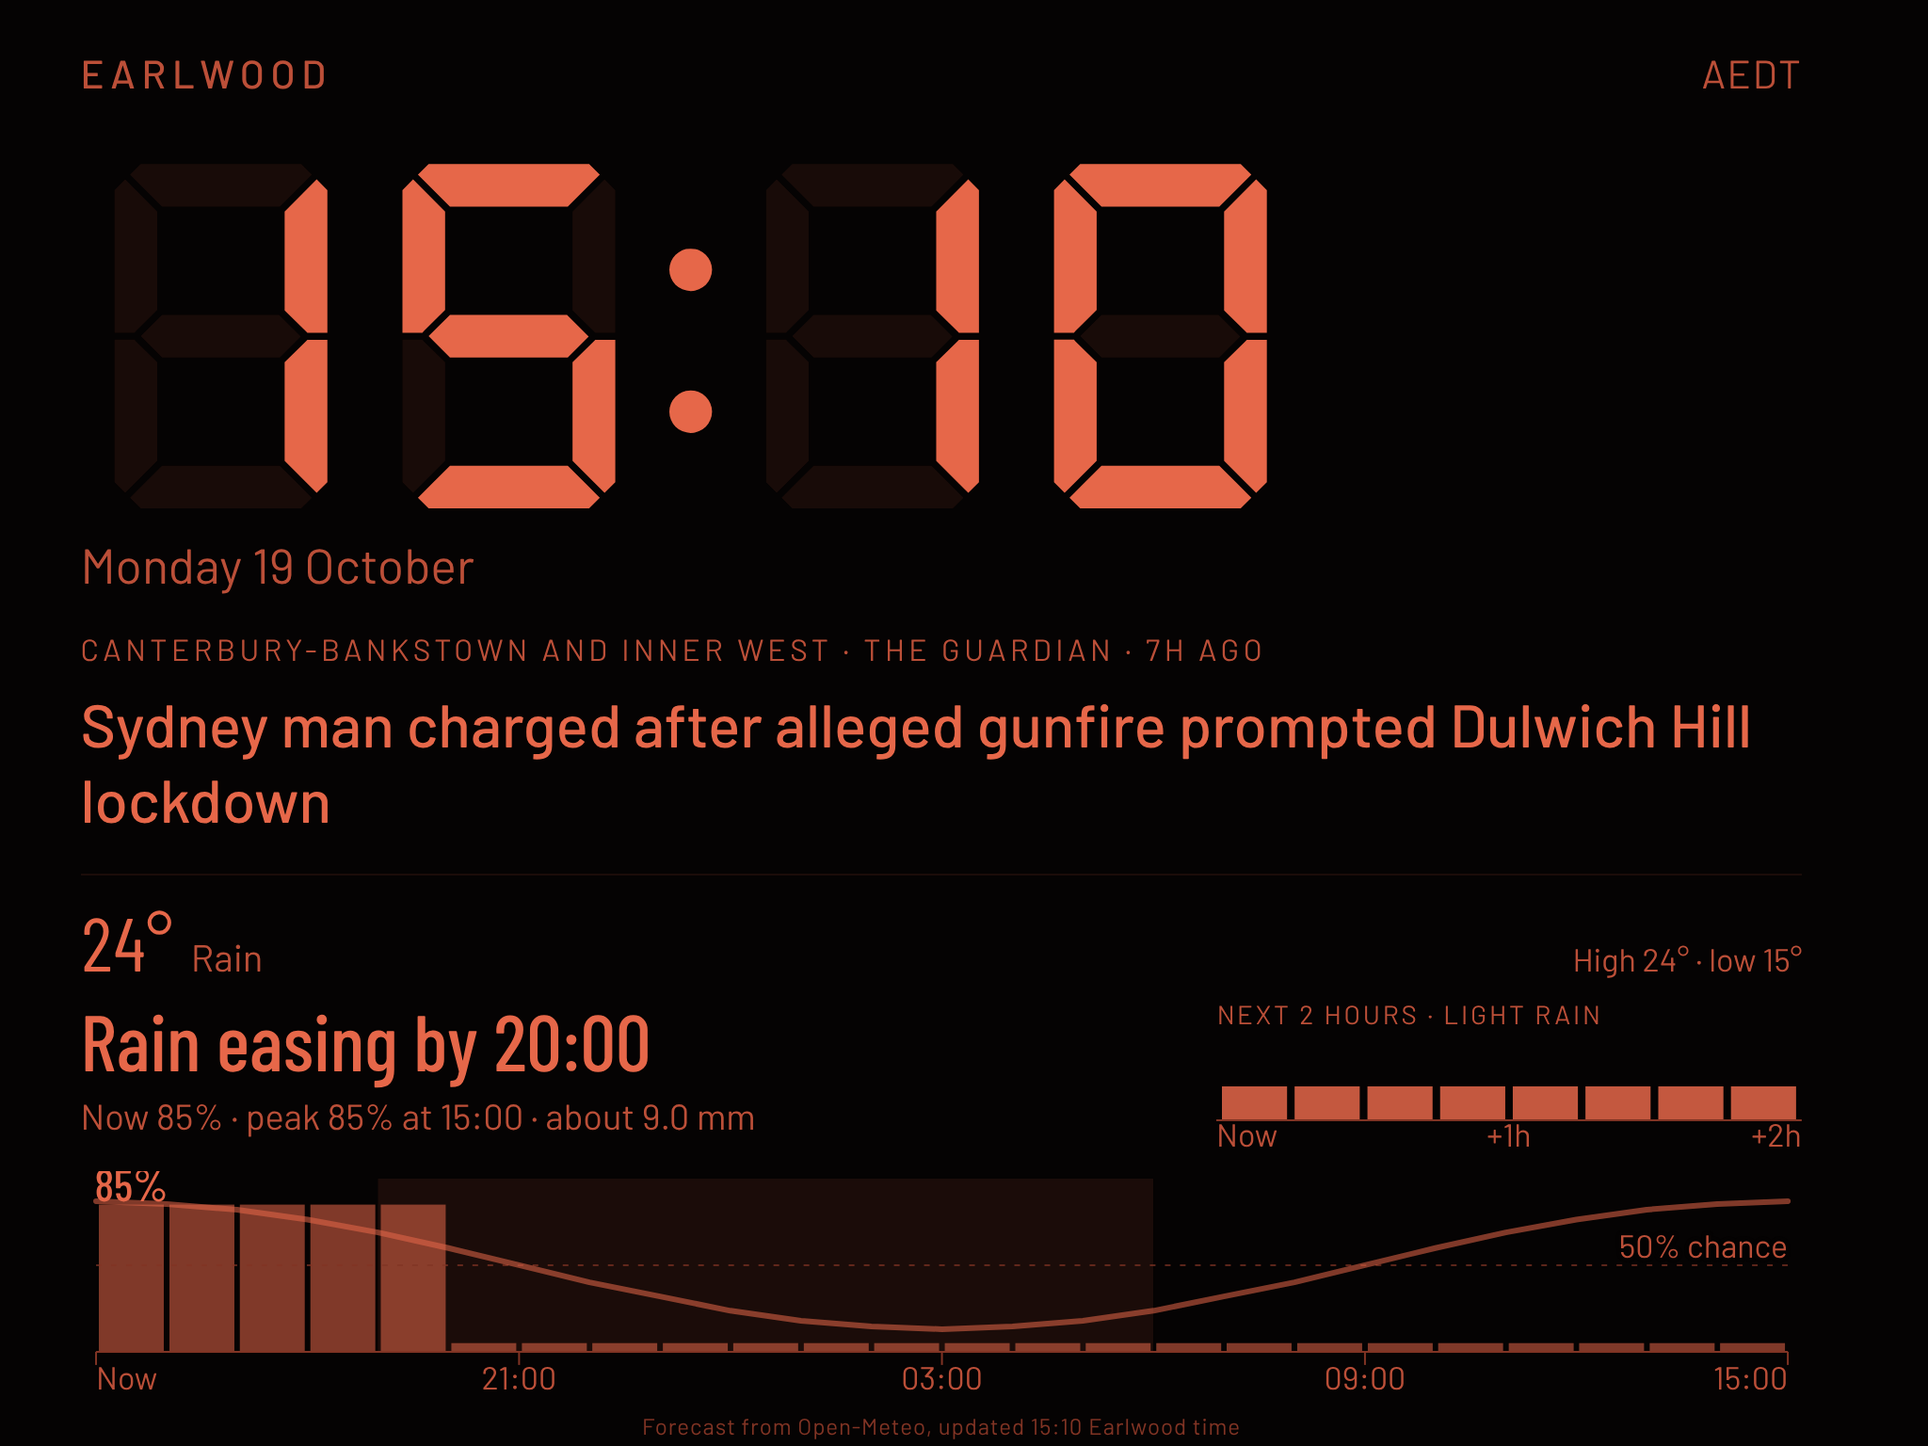
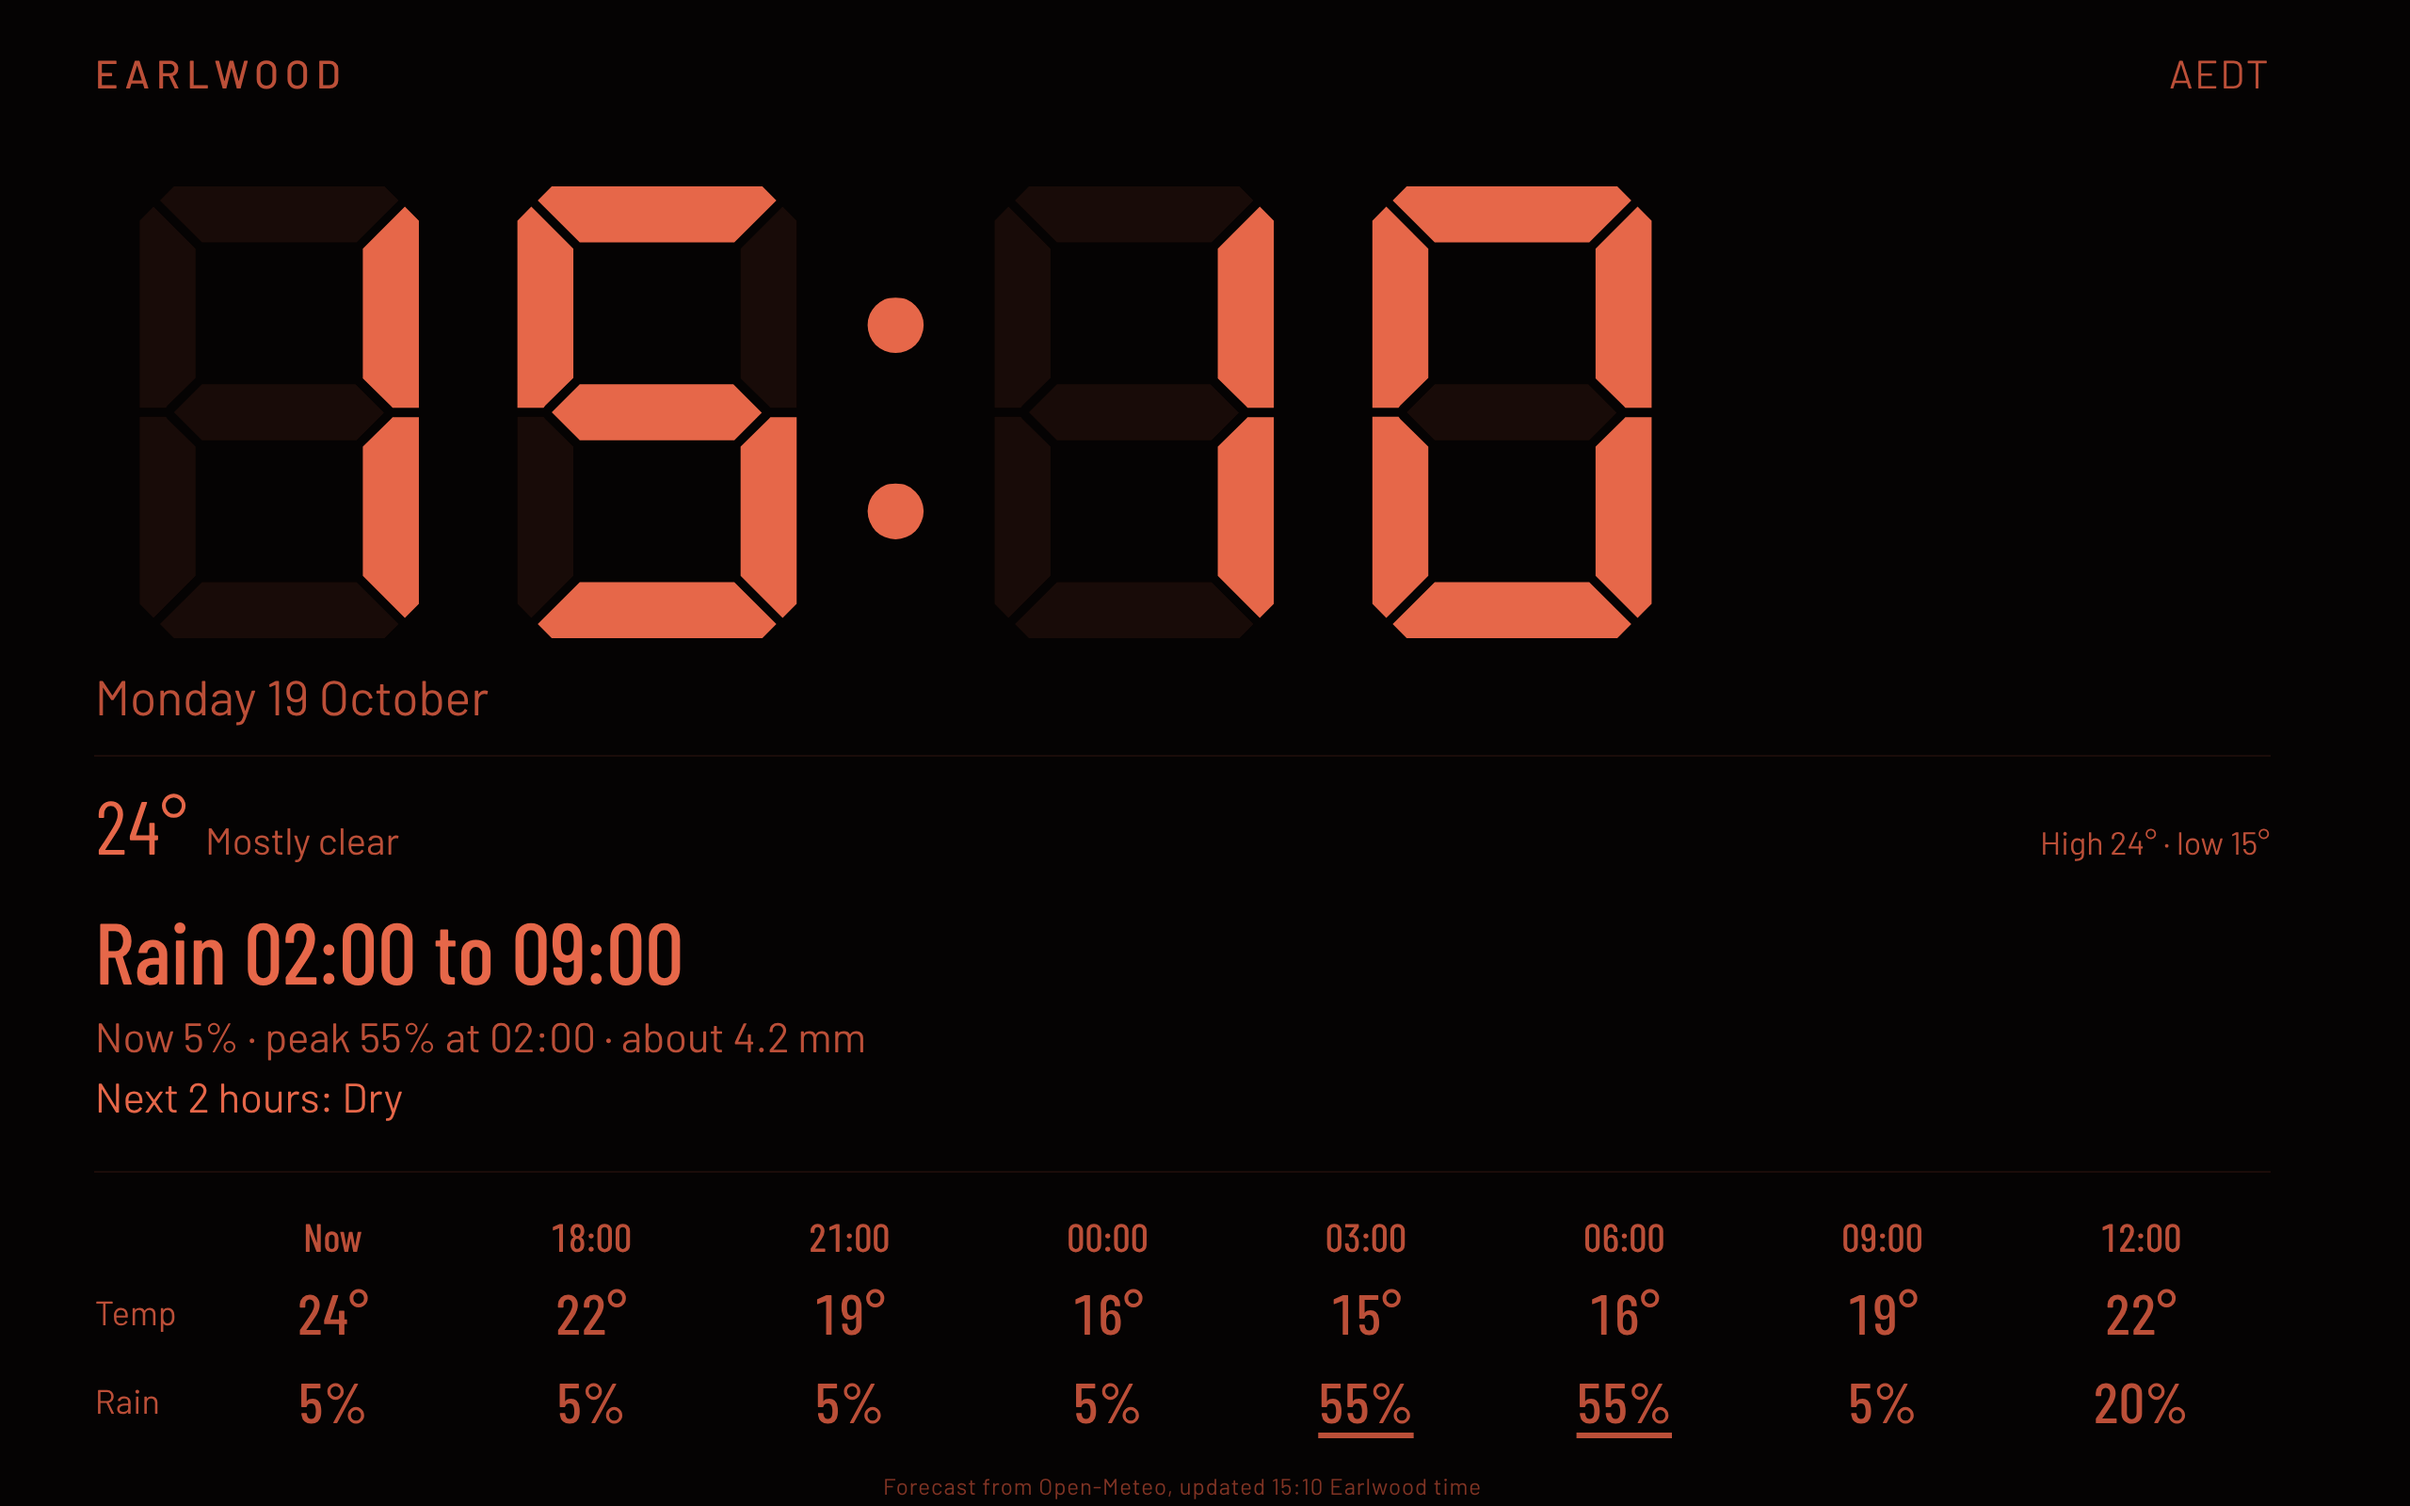
Earlwood page: text-and-numbers forecast, fit short tablet screens
Claude-Session: https://claude.ai/code/session_01LHKBPoX4shMzbvKjK3tPdX

diff --git a/app.js b/app.js
@@ -5,7 +5,7 @@
 
   // Change this whenever the page or its files change. Open clocks compare it with the
   // published app.js every half hour and reload themselves when it differs.
-  var BUILD = '20261019-1';
+  var BUILD = '20261019-3';
   var SCRIPT_URL = document.currentScript && document.currentScript.src;
 
   var CITIES = {
@@ -115,6 +115,7 @@
   els.syd.ncWrap = $('syd-nc-wrap');
   els.syd.ncCap = $('syd-nc-cap');
   els.syd.nc = $('syd-nc');
+  els.syd.grid = $('syd-grid');  // text-and-numbers forecast, used instead of the charts on the Earlwood page
   var foot = $('foot');
   var controls = $('controls');
   var btnHours = $('btn-hours');
@@ -454,8 +455,8 @@
         e.temp.textContent = '--°';
         e.desc.textContent = weather ? 'Forecast out of date' : 'Loading forecast';
         e.range.textContent = '';
-        e.chart.innerHTML = '';
-        if (e.rainHead) { e.rainHead.textContent = ''; e.rainSub.textContent = ''; e.ncWrap.hidden = true; }
+        if (e.chart) e.chart.innerHTML = '';
+        if (e.rainHead) { e.rainHead.textContent = ''; e.rainSub.textContent = ''; if (e.ncWrap) e.ncWrap.hidden = true; if (e.grid) e.grid.innerHTML = ''; }
         return;
       }
       var hi = Math.max.apply(null, win.temp);
@@ -464,7 +465,7 @@
       e.temp.textContent = Math.round(win.temp[0]) + '°';
       e.desc.textContent = codeText(win.code[0]);
       var portrait = window.innerHeight > window.innerWidth;
-      var cw = Math.round(e.chart.clientWidth) || 560;
+      var cw = e.chart ? Math.round(e.chart.clientWidth) || 560 : 0;
       if (e.rainHead) {
         // Sydney: rain first, temperature kept small
         e.range.textContent = 'High ' + Math.round(hi) + '° · low ' + Math.round(lo) + '°';
@@ -472,13 +473,27 @@
         e.rainHead.textContent = rs.head;
         e.rainSub.textContent = rs.sub;
         var nc = nowcastOf(weather[k]);
-        e.ncWrap.hidden = !nc;
+        if (e.ncWrap) e.ncWrap.hidden = !nc;
+        if (e.grid) {
+          // numbers instead of charts: every third hour, temperature and rain chance
+          e.ncCap.textContent = nc ? 'Next 2 hours: ' + nowcastText(nc) : '';
+          var cols = [0, 3, 6, 9, 12, 15, 18, 21];
+          var times = '<span class="g-l"></span>', temps = '<span class="g-l">Temp</span>', rains = '<span class="g-l">Rain</span>';
+          cols.forEach(function (i) {
+            var p = Math.round(win.pop[i]);
+            times += '<span class="g-t">' + (i === 0 ? 'Now' : hourLabel(win.t[i], CITIES[k].tz)) + '</span>';
+            temps += '<span>' + Math.round(win.temp[i]) + '°</span>';
+            rains += '<span' + (p >= 50 ? ' class="g-hi"' : '') + '>' + p + '%</span>';
+          });
+          e.grid.innerHTML = times + temps + rains;
+          return;
+        }
         if (nc) {
           e.ncCap.textContent = 'Next 2 hours · ' + nowcastText(nc);
-          e.nc.innerHTML = nowcastSVG(nc, Math.round(e.nc.clientWidth) || 220, portrait ? 46 : 60);
+          e.nc.innerHTML = nowcastSVG(nc, Math.round(e.nc.clientWidth) || 220, portrait ? 46 : (window.innerHeight <= 640 ? 40 : 60));
         }
         var roomy = !$(k + '-news');  // without a headline there is more height for the chart
-        e.chart.innerHTML = chartSVG(win, CITIES[k], cw, roomy ? Math.round(window.innerHeight * (portrait ? 0.28 : 0.25)) : (portrait ? 84 : 120), true);
+        e.chart.innerHTML = chartSVG(win, CITIES[k], cw, roomy ? Math.max(70, Math.round(e.chart.clientHeight) || 150) : (portrait ? 84 : 120), true);
       } else {
         e.range.textContent = 'Next 24h: high ' + Math.round(hi) + '°, low ' + Math.round(lo) + '° · '
           + (maxPop < 10 ? 'no rain expected' : 'rain chance up to ' + Math.round(maxPop) + '%');
@@ -494,6 +509,7 @@
     resizeTimer = setTimeout(renderWeather, 250);
   }
   window.addEventListener('resize', onResize);
+  if (document.fonts && document.fonts.ready) document.fonts.ready.then(renderWeather);
   window.addEventListener('orientationchange', onResize);
 
   function renderFoot() {

diff --git a/styles.css b/styles.css
@@ -165,9 +165,36 @@ body { font-family: var(--body); }
 
 /* Earlwood-only page (earlwood/index.html): one wide column */
 #app.solo { grid-template-columns: minmax(0, 1fr); }
-.solo #city-syd .time { font-size: 25cqw; }
+.solo #city-syd .time { font-size: min(23cqw, 30vh); }  /* wide, short screens are limited by height */
+/* the forecast fills whatever height is left under the clock */
+.solo .wx { flex: 1 1 auto; display: flex; flex-direction: column; min-height: 0; }
+.solo .wx-chart { flex: 1 1 0; min-height: 70px; max-height: 300px; position: relative; }
+.solo .wx-chart svg { position: absolute; left: 0; top: 0; width: 100%; height: 100%; margin-top: 0; }
 .solo .news-title { -webkit-line-clamp: 2; }
 .solo .rain-nc { flex-basis: 34%; }
+
+/* text-and-numbers forecast (Earlwood page) */
+.wx-text .rain-head { margin-top: 0.5em; font-size: clamp(30px, 6.4cqw, 46px); }
+.wx-text .rain-sub { font-size: clamp(16px, 3cqw, 22px); }
+.rain-next { font-size: clamp(16px, 3cqw, 22px); color: var(--ink); margin-top: 0.25em; }
+.wx-grid {
+  display: grid;
+  grid-template-columns: auto repeat(8, 1fr);
+  gap: 0.35em 0;
+  margin-top: 0.9em;
+  padding-top: 0.7em;
+  border-top: 1px solid var(--line);
+  font-family: var(--display);
+  font-weight: 500;
+  font-size: clamp(20px, 4.2cqw, 30px);
+  text-align: center;
+  font-variant-numeric: tabular-nums;
+}
+.wx-grid .g-l { text-align: left; color: var(--ink-2); font-family: var(--body); font-weight: 400; font-size: 0.6em; align-self: center; padding-right: 0.8em; }
+.wx-grid .g-t { color: var(--ink-2); font-size: 0.7em; }
+.wx-grid .g-hi { color: var(--ink); text-decoration: underline; text-underline-offset: 0.18em; }
+.wx-grid span:not(.g-l):not(.g-t) { color: var(--ink-2); }
+.wx-grid .g-hi { color: var(--ink); }
 
 /* Sydney: rain first, temperature small */
 .wx-rainy .wx-now { gap: 0.6em; }
@@ -280,6 +307,32 @@ body { font-family: var(--body); }
 @media (orientation: portrait) {
   #app.solo { grid-template-rows: minmax(0, 1fr); }
   .solo .news { display: block; }
-  .solo #city-syd .time { font-size: 26cqw; }
+  .solo #city-syd .time { font-size: min(26cqw, 20vh); }
   .solo .wx-chart svg { height: auto; }
+  /* portrait has height to spare: bigger text, spread out */
+  .solo .wx { justify-content: space-evenly; }
+  .wx-text .wx-temp { font-size: 11cqw; }
+  .wx-text .wx-desc { font-size: 4.4cqw; }
+  .wx-text .wx-range { font-size: 3.4cqw; }
+  .wx-text .rain-head { font-size: 9.5cqw; }
+  .wx-text .rain-sub, .rain-next { font-size: 3.8cqw; }
+  .wx-grid { font-size: 5.4cqw; }
+}
+
+/* short landscape screens such as small tablets */
+@media (orientation: landscape) and (max-height: 640px) {
+  #app { padding-top: 12px; padding-bottom: 20px; }
+  .city { gap: 8px; }
+  .city-head { font-size: 14px; }
+  .date { font-size: 18px; margin-top: 0.2em; }
+  .wx-rainy .wx-temp { font-size: 28px; }
+  .wx-rainy .wx-desc, .wx-rainy .wx-range { font-size: 14px; }
+  .rain-row { margin-top: 0.3em; }
+  .rain-head { font-size: 26px; }
+  .rain-sub, .rain-next { font-size: 14px; margin-top: 0.2em; }
+  .wx-text .rain-head { font-size: 28px; margin-top: 0.2em; }
+  .wx-grid { font-size: 20px; margin-top: 0.4em; padding-top: 0.4em; }
+  .rain-nc-cap { font-size: 11px; margin-bottom: 2px; }
+  .rain-nc svg { height: 40px; }
+  #foot { font-size: 11px; }
 }

diff --git a/earlwood/index.html b/earlwood/index.html
@@ -30,23 +30,16 @@
       <div class="time"><span class="ghost" aria-hidden="true">88:88</span><span class="hm" id="syd-hm">--:--</span><span class="ap" id="syd-ap"></span></div>
       <div class="date" id="syd-date"></div>
     </div>
-    <div class="wx wx-rainy">
+    <div class="wx wx-rainy wx-text">
       <div class="wx-now">
         <span class="wx-temp" id="syd-temp">--°</span>
         <span class="wx-desc" id="syd-desc">Loading forecast</span>
         <span class="wx-range" id="syd-range"></span>
       </div>
-      <div class="rain-row">
-        <div class="rain-text">
-          <div class="rain-head" id="syd-rain-head"></div>
-          <div class="rain-sub" id="syd-rain-sub"></div>
-        </div>
-        <div class="rain-nc" id="syd-nc-wrap" hidden>
-          <div class="rain-nc-cap" id="syd-nc-cap"></div>
-          <div id="syd-nc"></div>
-        </div>
-      </div>
-      <div class="wx-chart" id="syd-chart"></div>
+      <div class="rain-head" id="syd-rain-head"></div>
+      <div class="rain-sub" id="syd-rain-sub"></div>
+      <div class="rain-next" id="syd-nc-cap"></div>
+      <div class="wx-grid" id="syd-grid"></div>
     </div>
   </section>
 

diff --git a/docs/requirements.md b/docs/requirements.md
@@ -31,7 +31,7 @@ Status key: Built means the code exists and passed my own render checks. Accepte
 | S8 | I can switch between 24 and 12 hour time. | 24 hour by default. One tap to switch, remembered. Also applies to the chart hour labels. | Accepted on device |
 | S9 | As the sleeper, I can see the top regional headline for each place. | Earlwood (Sydney) shows the top ABC News NSW story, Eastbourne the top BBC News Sussex story, each with its source and age. Refreshes about once an hour. Hidden if no headline is available. Landscape only. | Accepted on device. The scheduled job has run once and fetched live headlines from both feeds |
 | S10 | As the sleeper, I can see how likely rain is in Earlwood, without temperature taking the space. | Sydney forecast leads with a plain-words rain outlook (for example "Rain easing by 20:00"), chance now, peak chance and time, expected millimetres, a next-2-hours rain strip, and a 24 hour chart led by rain chance. Temperature shrinks to one small line. Eastbourne unchanged. | Built, awaiting customer check on the iPad |
-| S11 | As the sleeper, I can have a second clock that shows only Earlwood, at its own address. | `/earlwood/` page with one large clock and the rain-first forecast. No headline and no Eastbourne. No Eastbourne. Own Home Screen icon and name. | Built, awaiting customer check |
+| S11 | As the sleeper, I can have a second clock that shows only Earlwood, at its own address. | `/earlwood/` page with one large clock and a text-and-numbers forecast. No charts, no headline and no Eastbourne. Fits short, wide screens. No Eastbourne. Own Home Screen icon and name. | Built, awaiting customer check |
 
 ## Ideas, not yet prioritised
 
@@ -99,3 +99,4 @@ Status key: Built means the code exists and passed my own render checks. Accepte
 | 19 Oct 2026 | 3 | Rename Sydney to Earlwood, and make news, weather and rain specific to Earlwood | Column renamed. Weather and rain already use an Earlwood point. News now looks for Earlwood stories first, then Canterbury-Bankstown and Inner West, then ABC News NSW. Few stories name Earlwood, so the wider area will often show |
 | 19 Oct 2026 | 3 | A second night clock that shows only Earlwood, with a different URL | Added as S11 on the same site at /earlwood/, so no new repository is needed. A separate repository is possible if a fully separate address is wanted |
 | 19 Oct 2026 | 3 | Earlwood-only page: remove the news, keep time and weather | Headline area removed from /earlwood/. Clock and forecast chart are larger to use the space. The main clock still shows headlines |
+| 19 Oct 2026 | 3 | Earlwood page on the Lenovo tablet: screen is small, clock font is fine, drop the weather graphics and use text and numbers | Charts replaced with text and a three-hourly table of temperature and rain chance. Clock size now follows screen height so nothing is cut off on short screens |

diff --git a/README.md b/README.md
@@ -27,7 +27,7 @@ Choices are remembered on the iPad. Landscape is the main layout. Portrait also 
 
 ## Earlwood-only clock
 
-A second page at `/earlwood/` (for example `https://konradwhiting.github.io/night-clock/earlwood/`) shows only Earlwood: one large clock and the rain-first forecast, with no headlines. It uses the same code and headlines as the main page, so there is nothing extra to maintain. Add it to the Home Screen separately and it gets its own icon, named Earlwood Clock. The 24 or 12 hour and brightness choices are shared with the main clock, since both pages live on the same site.
+A second page at `/earlwood/` (for example `https://konradwhiting.github.io/night-clock/earlwood/`) shows only Earlwood: one large clock and a forecast made of text and numbers (no charts, no headlines): temperature, a plain-words rain outlook, the next two hours, and temperature and rain chance every three hours. It scales to short, wide tablet screens. It uses the same code and headlines as the main page, so there is nothing extra to maintain. Add it to the Home Screen separately and it gets its own icon, named Earlwood Clock. The 24 or 12 hour and brightness choices are shared with the main clock, since both pages live on the same site.
 
 ## Sydney rain
 
